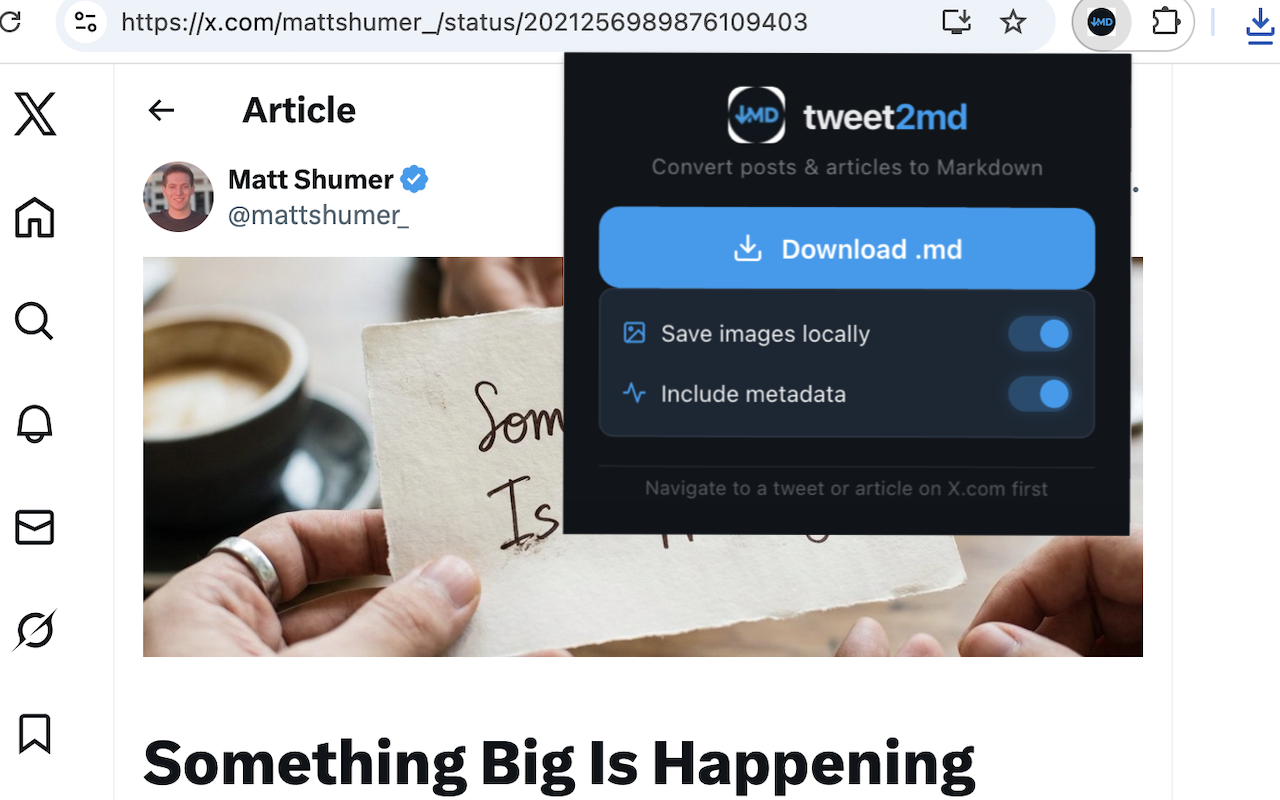
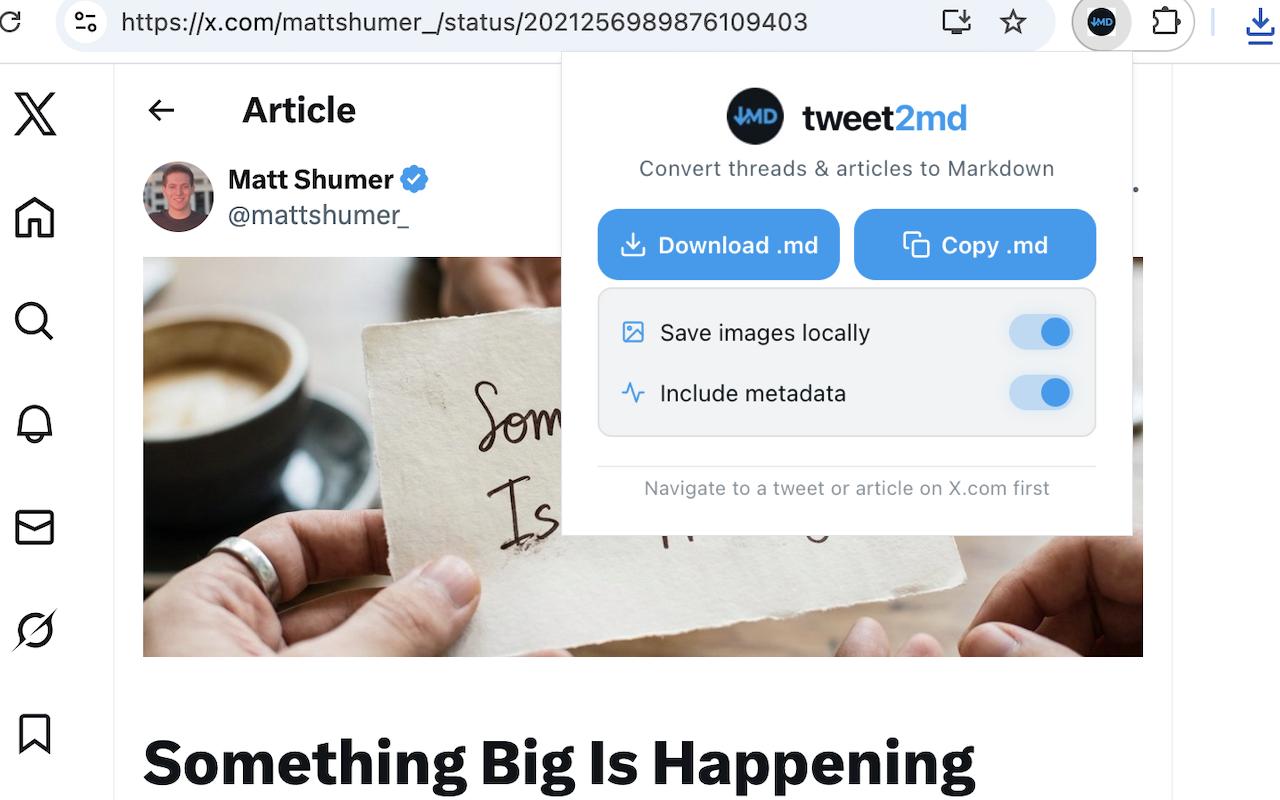
docs: update README and prepare v1.2.0 changelog
- Incorporate the new "Copy to Clipboard" feature into the usage instructions
- Chronicle recent UI theming and markdown syntax fixes under the 1.2.0 release in the changelog

Changed region(s): [[0.4375, 0.0625, 0.9062, 0.6875]]

diff --git a/README.md b/README.md
@@ -1,6 +1,6 @@
 # tweet2md
 
-> The ultimate Thread Downloader & Post Extractor for X / Twitter. Convert posts, long articles, and complex threads into clean Markdown — one click.
+> The open-source alternative to broken Twitter clippers. Export X Articles and threads to Markdown for LLMs, Obsidian, and Notion.
 
 <p align="center">
   <img src="assets/Extension.png" alt="tweet2md extension UI" width="350" />
@@ -8,7 +8,13 @@
 
 ## What it does
 
-**tweet2md** is a Chrome extension that extracts tweets, threads, and long-form articles (X Notes) and downloads them as `.md` files.
+**tweet2md** is an open-source Chrome extension for **local scraping** and **No-API Twitter export**. It extracts tweets, threads, and long-form articles (X Notes) and converts them to clean Markdown. You can download them as `.md` files or copy them directly to your clipboard.
+
+### Common Workflows
+
+- **Knowledge Management:** Seamlessly import X content into **Obsidian**, **Notion**, **Logseq**, or your **Second Brain** via clean `.md` files.
+- **AI & LLM Training:** Export high-quality X threads as clean text for RAG (Retrieval-Augmented Generation) or GPT prompts.
+- **Offline Archiving:** Research preservation with local image hosting to prevent link rot.
 
 ### Supports
 
@@ -19,6 +25,14 @@
 - **Metadata** — optionally include metrics (likes, reposts, etc.) as **YAML frontmatter**
 - **Image Downloads** — optionally download all images locally alongside the `.md` file
 - **Clean output** — no engagement buttons, follow CTAs, or tracking clutter; @mentions stay inline
+- **Zero-API Architecture** — no X API key required, works directly in your browser
+
+### Technical Specs
+
+- **Format:** Markdown (.md) with YAML Frontmatter
+- **Requirements:** No X API key required
+- **Privacy:** Local-only execution (No server-side processing)
+- **Compatibility:** Supports X Articles (formerly Notes), nested threads, and media
 
 <p align="center">
   <img src="assets/Nested_Thread.png" alt="Example of Nested Thread output" width="600" />
@@ -48,8 +62,8 @@ Install `tweet2md` from the [Chrome Web Store](https://chromewebstore.google.com
 1. Navigate to a tweet, thread, or article on **x.com**
 2. Click the **tweet2md** icon
 3. (Optional) Toggle **Save images locally** or **Include metadata**
-4. Click **Download .md**
-5. Files save to your Downloads folder
+4. Click **Download .md** to save the file, or **Copy .md** to copy to your clipboard
+5. If downloaded, files save to your Downloads folder
 
 Filenames: `@handle-tweetId.md` (tweets/threads) or `@handle-article-slug.md` (articles).
 

diff --git a/CHANGELOG.md b/CHANGELOG.md
@@ -2,6 +2,17 @@
 
 All notable changes to this project will be documented in this file.
 
+## [1.2.0] - 2026-03-31
+
+### Added
+
+- **Copy to Clipboard**: Added a "Copy .md" button to the popup to copy generated markdown directly to your clipboard instead of downloading.
+- **Dynamic Theming**: Added light and dark mode support to the popup UI, automatically respecting your system preferences.
+
+### Fixed
+
+- **Markdown Formatting**: Fixed a bug causing improper bold and italic rendering when text nodes contained trailing or leading whitespaces.
+
 ## [1.1.0] - 2026-03-22
 
 ### Added
